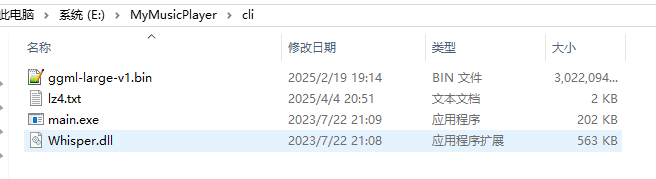
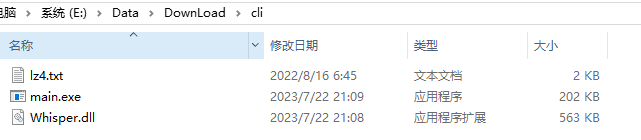
update code

diff --git a/src/MusicList.cpp b/src/MusicList.cpp
@@ -273,6 +273,10 @@ void MusicLyricManager::analysisMusicLyricData(const QString & music_file)
 		addLog(m_lyric_analysis_exe + "不存在,无法解析歌词.");
 		return;
 	}
+	if (!QFile(m_lyric_analysis_model).exists()) {
+		addLog(m_lyric_analysis_model + "不存在,无法解析歌词.");
+		return;
+	}
 	QString root_path = QCoreApplication::applicationDirPath();
 	QString cmd = m_lyric_analysis_cmd;
 	cmd = cmd.replace("analysis_exe", m_lyric_analysis_exe);

diff --git a/Readme.md b/Readme.md
@@ -22,6 +22,16 @@
 
 ![cli](cli.png)
 
+需要下载ggml-large-v1.bin 
+
+![model](model.png)
+
+* ggml-large-v1.bin：
+
+[模型获取方法](https://github.com/ggml-org/whisper.cpp/blob/master/models/README.md)
+
+[直接下载.bin模型](https://huggingface.co/ggerganov/whisper.cpp/tree/main) 不同模型音频转文字的准确度不一样
+
 * src: 主要源码
 
 * resource: 样式文件，及其默认图标，logo
